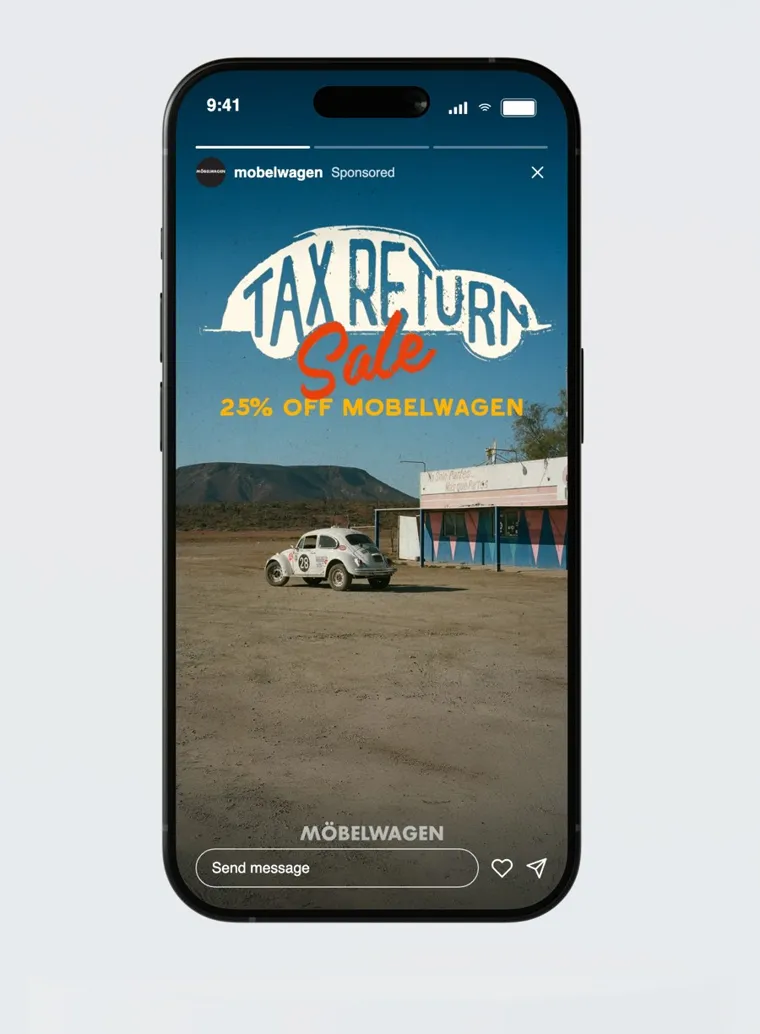
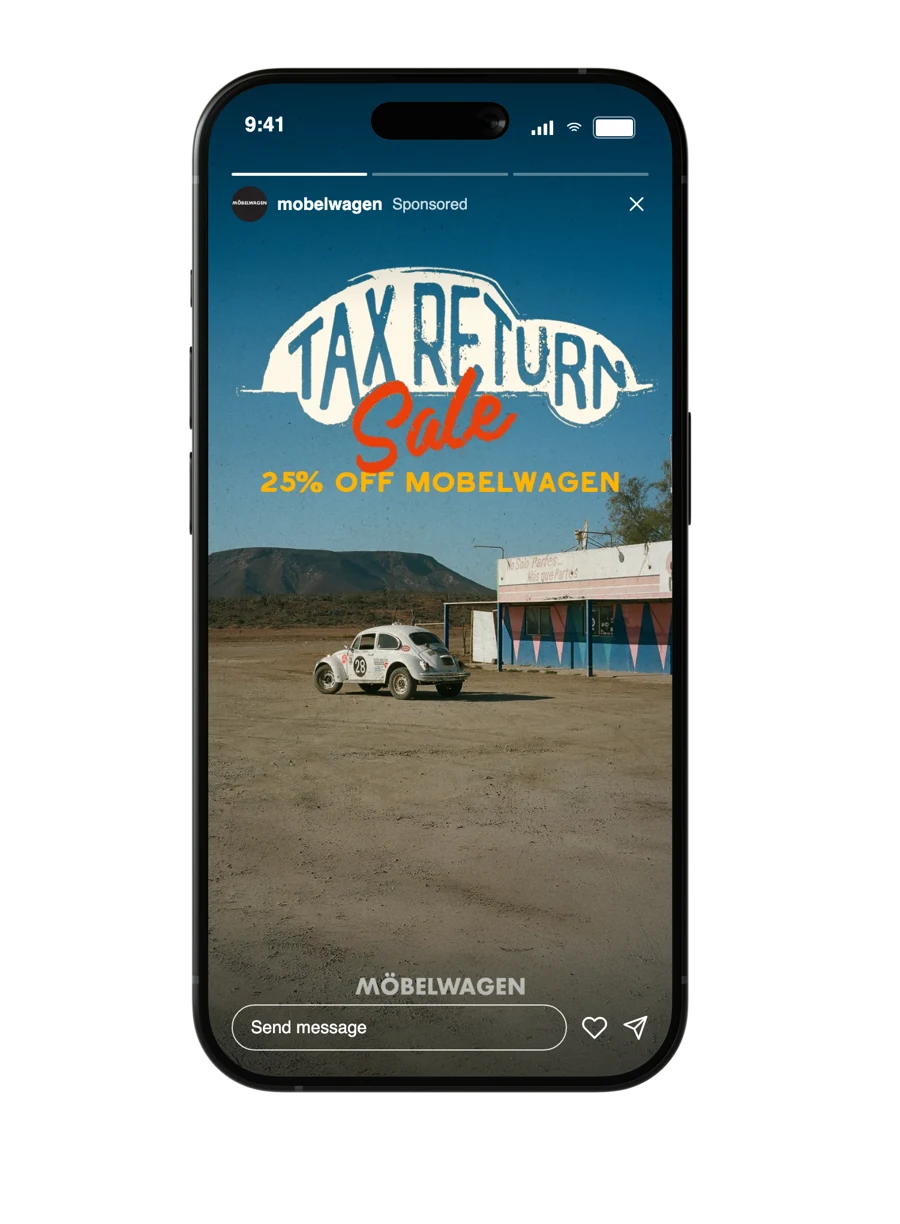
fix(carwow): transparent phone cut-outs, no grey studio box

diff --git a/app/for/carwow-v7m3q9/page.tsx b/app/for/carwow-v7m3q9/page.tsx
@@ -164,7 +164,7 @@ export default function CarwowPage() {
                 src={brand.src}
                 alt={brand.alt}
                 width={760}
-                height={1100}
+                height={1034}
                 sizes="(max-width: 768px) 72vw, 33vw"
                 className="h-auto w-full"
               />

diff --git a/scripts/mockups/composite-iphone.py b/scripts/mockups/composite-iphone.py
@@ -23,8 +23,18 @@ x0, y0, x1, y1 = pix.bbox
 mask = pix.composite().getchannel("A")
 screen = Image.open(screen_path).convert("RGBA").resize((x1 - x0, y1 - y0), Image.LANCZOS)
 hide = {"Podium", "Delete this layer", "Colors", "Shadows"}
+# A .webp/.png output is a cut-out: the studio background is removed by building
+# an alpha from the 'Case' (phone body) and 'Screen' layers, not by hiding it.
+cutout = out_path.lower().endswith((".webp", ".png"))
 base = psd.composite(layer_filter=lambda l: l.kind != "smartobject" and l.name not in hide).convert("RGBA")
 base.paste(screen, (x0, y0), mask)
-out = base.crop((1250, 380, 2750, 2420)).convert("RGB")
+if cutout:
+    alpha = Image.new("L", base.size, 0)
+    case = next(l for l in next(l for l in mock if l.name == "Case") if l.kind == "pixel")
+    alpha.paste(case.composite().getchannel("A"), case.bbox[:2])
+    alpha.paste(255, (x0, y0), mask)
+    base.putalpha(alpha)
+out = base.crop((1250, 380, 2750, 2420))
+out = out if cutout else out.convert("RGB")
 out.thumbnail((900, 1300))
 out.save(out_path, quality=88)
